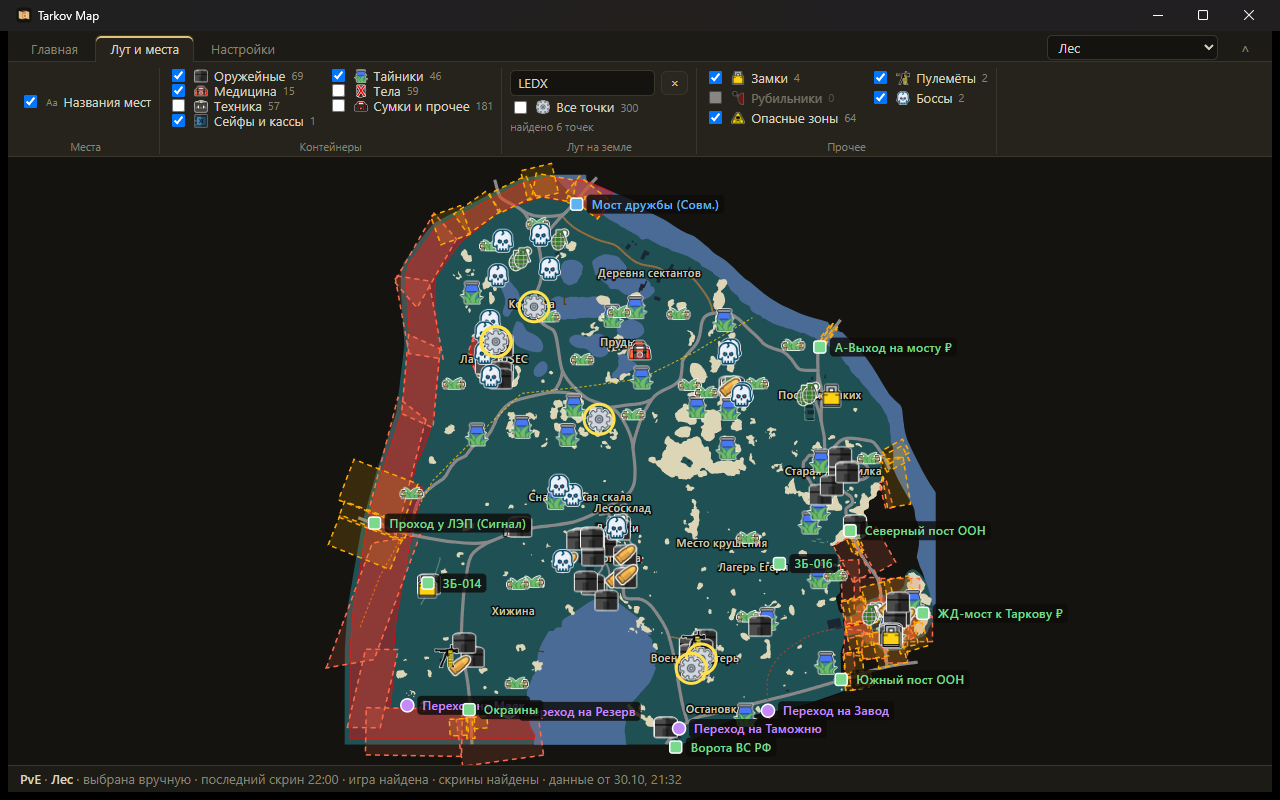
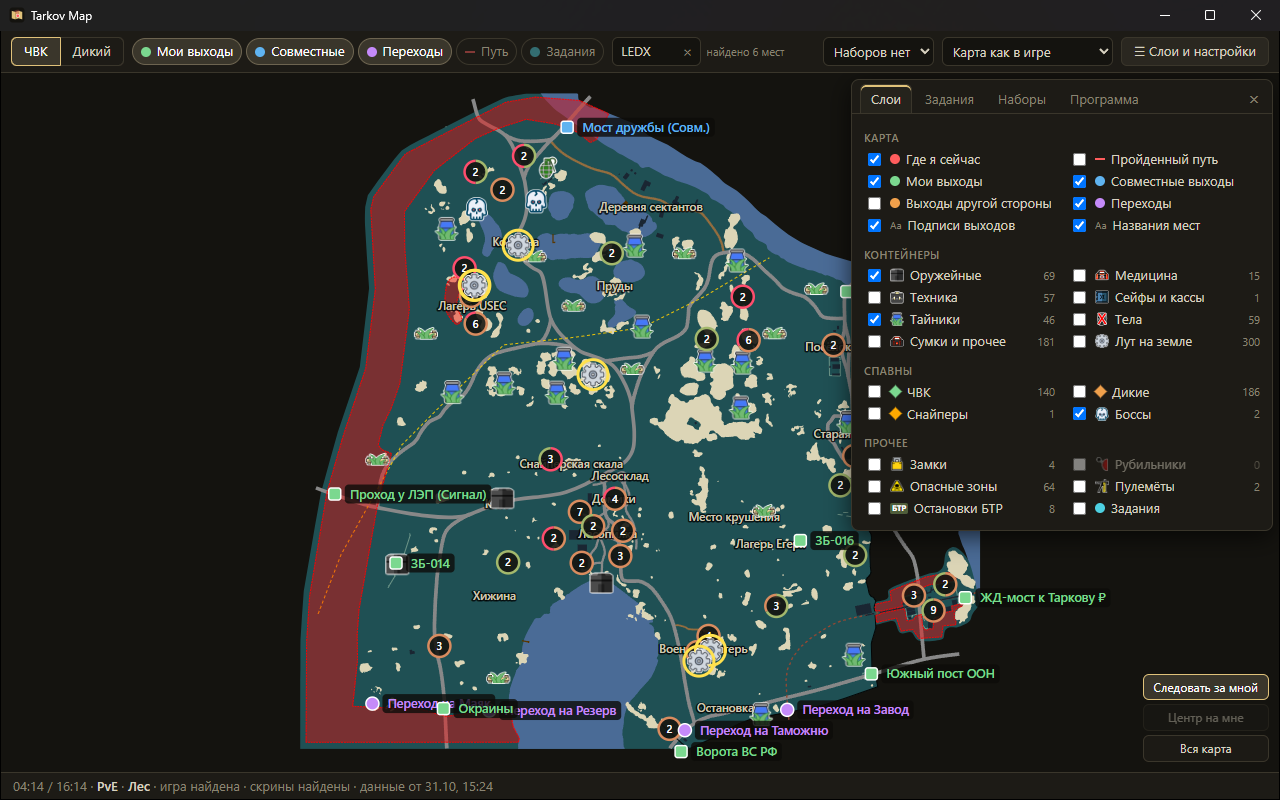
Верхняя панель в одну строку, рамка выбранной стороны, новые скриншоты
- У выбранной кнопки «Дикий» пропадала левая рамка: соседние рамки
  переключателя ЧВК/Дикий теперь накладываются, выбранная кнопка сверху.
- В окне 1280 px кнопка «Слои и настройки» уезжала на вторую строку.
  Поле поиска стало резиновым: сужается оно, а не переносится панель;
  крестик очистки — внутри поля и виден, только когда есть текст.
- Окно «Слои и настройки» непрозрачное (сквозь него читались подписи
  карты) и по высоте содержимого: кнопки этажей и вида под ним доступны.
- README: скриншоты нового интерфейса, в списке возможностей — задания,
  группы меток, наборы слоёв и расстояние до ближайшего выхода.

diff --git a/frontend/dist/style.css b/frontend/dist/style.css
@@ -13,29 +13,35 @@ html, body { margin: 0; height: 100%; background: var(--bg); color: var(--text);
 body { display: flex; flex-direction: column; }
 
 /* верхняя панель: то, что нужно в рейде; в узком окне переносится на вторую строку */
-#bar { flex: none; display: flex; flex-wrap: wrap; align-items: center; gap: 6px 10px; padding: 6px 10px; background: var(--panel);
+#bar { flex: none; display: flex; flex-wrap: wrap; align-items: center; gap: 6px 8px; padding: 6px 10px; background: var(--panel);
   border-bottom: 1px solid var(--line); user-select: none; }
 #bar .spacer { flex: 1; }
 #bar select { background: var(--bg); color: var(--text); border: 1px solid var(--line); border-radius: 6px; padding: 4px 6px; font: inherit; max-width: 190px; }
 #bar .primary { border-color: var(--accent); color: #fff; }
 .seg { display: flex; }
-.seg label { border: 1px solid var(--line); padding: 4px 12px; cursor: pointer; }
+.seg label { position: relative; border: 1px solid var(--line); padding: 4px 12px; cursor: pointer; }
 .seg label:first-child { border-radius: 6px 0 0 6px; }
-.seg label:last-child { border-radius: 0 6px 6px 0; border-left: none; }
+/* соседние рамки накладываются, а не пропадают: у выбранной кнопки видны все четыре края */
+.seg label:last-child { border-radius: 0 6px 6px 0; margin-left: -1px; }
 .seg input, .chip input, .mbtn input { position: absolute; opacity: 0; pointer-events: none; }
-.seg label:has(input:checked) { background: #3a362b; color: #fff; border-color: var(--accent); }
+.seg label:has(input:checked) { z-index: 1; background: #3a362b; color: #fff; border-color: var(--accent); }
 .chips { display: flex; flex-wrap: wrap; gap: 4px; }
-.chip { display: flex; align-items: center; gap: 6px; border: 1px solid var(--line); border-radius: 14px; padding: 3px 10px; cursor: pointer;
+.chip { display: flex; align-items: center; gap: 6px; border: 1px solid var(--line); border-radius: 14px; padding: 3px 8px; cursor: pointer;
   color: var(--muted); white-space: nowrap; }
 .chip:has(input:checked) { background: #3a362b; color: #fff; border-color: #6d6450; }
 .chip:not(:has(input:checked)) .sw { opacity: .45; }
 .seg label:has(input:focus-visible), .chip:has(input:focus-visible), .mbtn:has(input:focus-visible) { outline: 2px solid var(--accent); }
-.search { display: flex; align-items: center; gap: 4px; }
+/* поиск резиновый: в окне 1280 px панель умещается в строку, тесно — сужается поле, а не переносится панель */
+.search { flex: 1 1 150px; max-width: 360px; display: flex; align-items: center; gap: 6px; }
+.search .q { position: relative; flex: 1; min-width: 80px; display: flex; }
 #loot-found { font-size: 11px; white-space: nowrap; }
-#loot-q { width: 170px; background: var(--bg); color: var(--text); border: 1px solid var(--line); border-radius: 6px; padding: 4px 8px; font: inherit; }
+#loot-q { flex: 1; width: 0; background: var(--bg); color: var(--text); border: 1px solid var(--line); border-radius: 6px; padding: 4px 24px 4px 8px; font: inherit; }
 #loot-q:disabled { opacity: .6; }
-#loot-q::-webkit-search-cancel-button { display: none; } /* свой × рядом, второй не нужен */
-#loot-clear { padding: 2px 8px; }
+#loot-q::-webkit-search-cancel-button { display: none; } /* свой × в поле, второй не нужен */
+#loot-clear { position: absolute; right: 1px; top: 1px; bottom: 1px; border: none; background: none; color: var(--muted); padding: 0 7px; font-size: 15px; line-height: 1; }
+#loot-clear:hover { color: #fff; }
+#loot-q:placeholder-shown { padding-right: 8px; } /* × скрыт — подсказке нужно всё место */
+#loot-q:placeholder-shown + #loot-clear { visibility: hidden; }
 
 .ico { width: 14px; height: 14px; flex: none; }
 .sw { width: 10px; height: 10px; border-radius: 50%; display: inline-block; flex: none; }
@@ -56,9 +62,10 @@ label.empty { opacity: .45; }
 #floors label:has(input:checked), .mbtn:has(input:checked) { background: #3a362b; color: #fff; border-color: var(--accent); }
 #floors label:hover, .mbtn:hover:not(:disabled) { background: #3a362b; }
 
-/* окно «Слои и настройки»: справа над картой, без затемнения — карта рядом видна */
-#panel { position: absolute; z-index: 6; top: 6px; right: 6px; bottom: 6px; width: 420px; max-width: calc(100% - 12px); display: flex; flex-direction: column;
-  background: #1d1b16f5; border: 1px solid var(--line); border-radius: 8px; box-shadow: 0 6px 24px #000a; user-select: none; }
+/* окно «Слои и настройки»: справа над картой, без затемнения — карта рядом видна. Высота по содержимому:
+   кнопки этажей и вида под коротким окном остаются доступны. Непрозрачное — сквозь него не читаются подписи карты */
+#panel { position: absolute; z-index: 6; top: 6px; right: 6px; max-height: calc(100% - 12px); width: 420px; max-width: calc(100% - 12px);
+  display: flex; flex-direction: column; background: var(--panel); border: 1px solid var(--line); border-radius: 8px; box-shadow: 0 6px 24px #000a; user-select: none; }
 #panel[hidden] { display: none; }
 .phead { display: flex; align-items: center; border-bottom: 1px solid var(--line); padding: 4px 4px 0 8px; }
 .ptabs { display: flex; gap: 2px; flex: 1; }

diff --git a/frontend/dist/index.html b/frontend/dist/index.html
@@ -20,8 +20,10 @@
     <label class="chip" title="Цели заданий на карте; список — в окне «Слои и настройки»"><input type="checkbox" data-f="quests"><span class="sw" style="background:var(--quest)"></span>Задания</label>
   </div>
   <div class="search">
-    <input id="loot-q" type="search" placeholder="Найти: флешка, Ледокол…" title="Несколько слов — через запятую. Ищет лут на земле, контейнеры по названию и замки по названию ключа; что внутри контейнеров, неизвестно" spellcheck="false">
-    <button id="loot-clear" title="Очистить">×</button>
+    <span class="q">
+      <input id="loot-q" type="search" placeholder="Найти: флешка, Ледокол…" title="Несколько слов — через запятую. Ищет лут на земле, контейнеры по названию и замки по названию ключа; что внутри контейнеров, неизвестно" spellcheck="false">
+      <button id="loot-clear" title="Очистить">×</button>
+    </span>
     <span id="loot-found" class="muted"></span>
   </div>
   <span class="spacer"></span>

diff --git a/README.md b/README.md
@@ -13,19 +13,21 @@
 
 </div>
 
-![Главная вкладка: Развязка, пройденный путь по скриншотам и выходы ЧВК](docs/images/main.png)
+![Развязка: пройденный путь по скриншотам, выходы ЧВК, в строке статуса — время до конца рейда и ближайший выход](docs/images/main.png)
 
 ## Что умеет
 
 - **Где я и куда смотрю.** Нажали в рейде клавишу скриншота — на карте появляются точка и конус взгляда. Из нескольких скриншотов складывается пройденный путь.
 - **Сама выбирает карту.** По логам игры видно, какая карта загружается и в каком режиме — PvE и PvP показываются раздельно.
-- **Выходы своей стороны.** ЧВК или Дикий, совместные выходы, платные отмечены ₽; переходы на другие карты.
+- **Выходы своей стороны.** ЧВК или Дикий, совместные выходы, платные отмечены ₽; переходы на другие карты. В строке статуса — ближайший выход и сколько до него метров.
 - **Этажи.** На многоэтажных картах этаж выбирается по высоте последнего скриншота, метки других этажей приглушены.
-- **Лут и места.** Названия мест, семь групп контейнеров, лут на земле с поиском по русскому названию, замки, рубильники, опасные зоны, пулемёты, боссы.
+- **Лут и места.** Названия мест, семь групп контейнеров, лут на земле с поиском по русскому названию, замки, рубильники, опасные зоны, пулемёты, боссы. Близкие метки собираются в группу с числом и распадаются при приближении.
+- **Задания.** Цели заданий на карте и их список; «Только активные» — взятые и не сданные задания по логам игры.
+- **Главное — на панели, остальное — в окне «Слои и настройки».** Любое сочетание слоёв можно сохранить набором под своим названием.
 - **Любая карта вручную** — посмотреть до рейда, куда идти.
 - **Без интернета.** Карты и данные встроены в exe: программу можно передать одним файлом.
 
-![Вкладка «Лут и места»: Лес, контейнеры, тайники, боссы и поиск LEDX](docs/images/loot.png)
+![Окно «Слои и настройки» на Лесу: оружейные ящики, тайники, боссы и поиск LEDX, близкие метки собраны в группы](docs/images/loot.png)
 
 ## Как это работает
 
